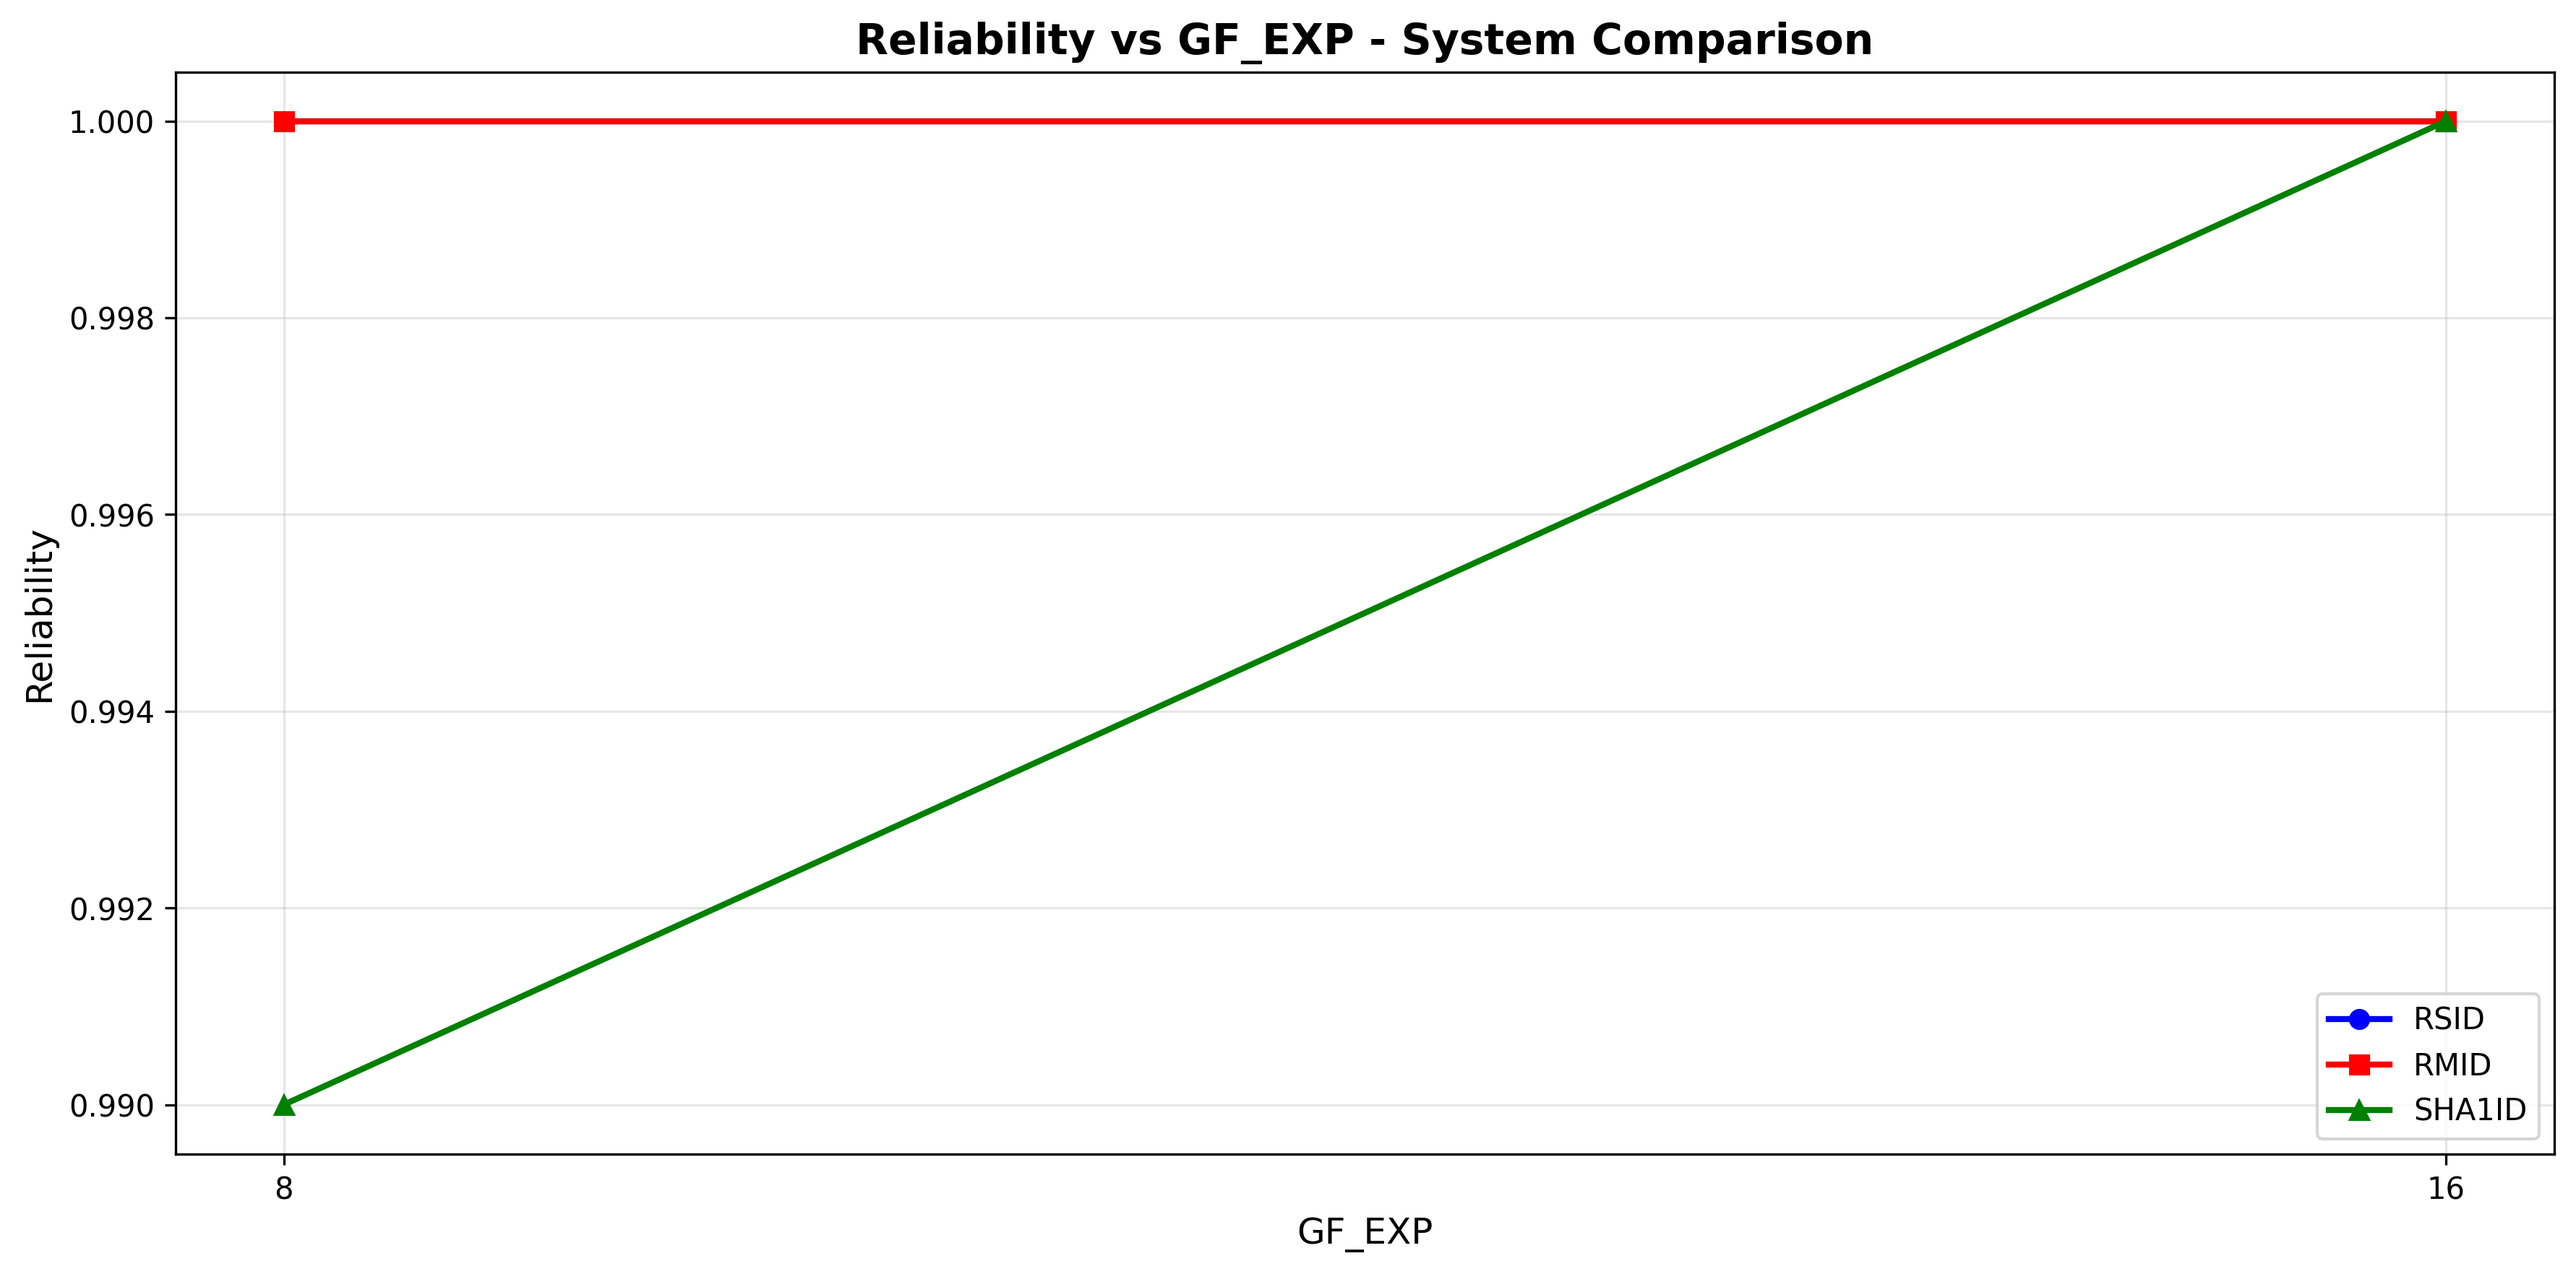
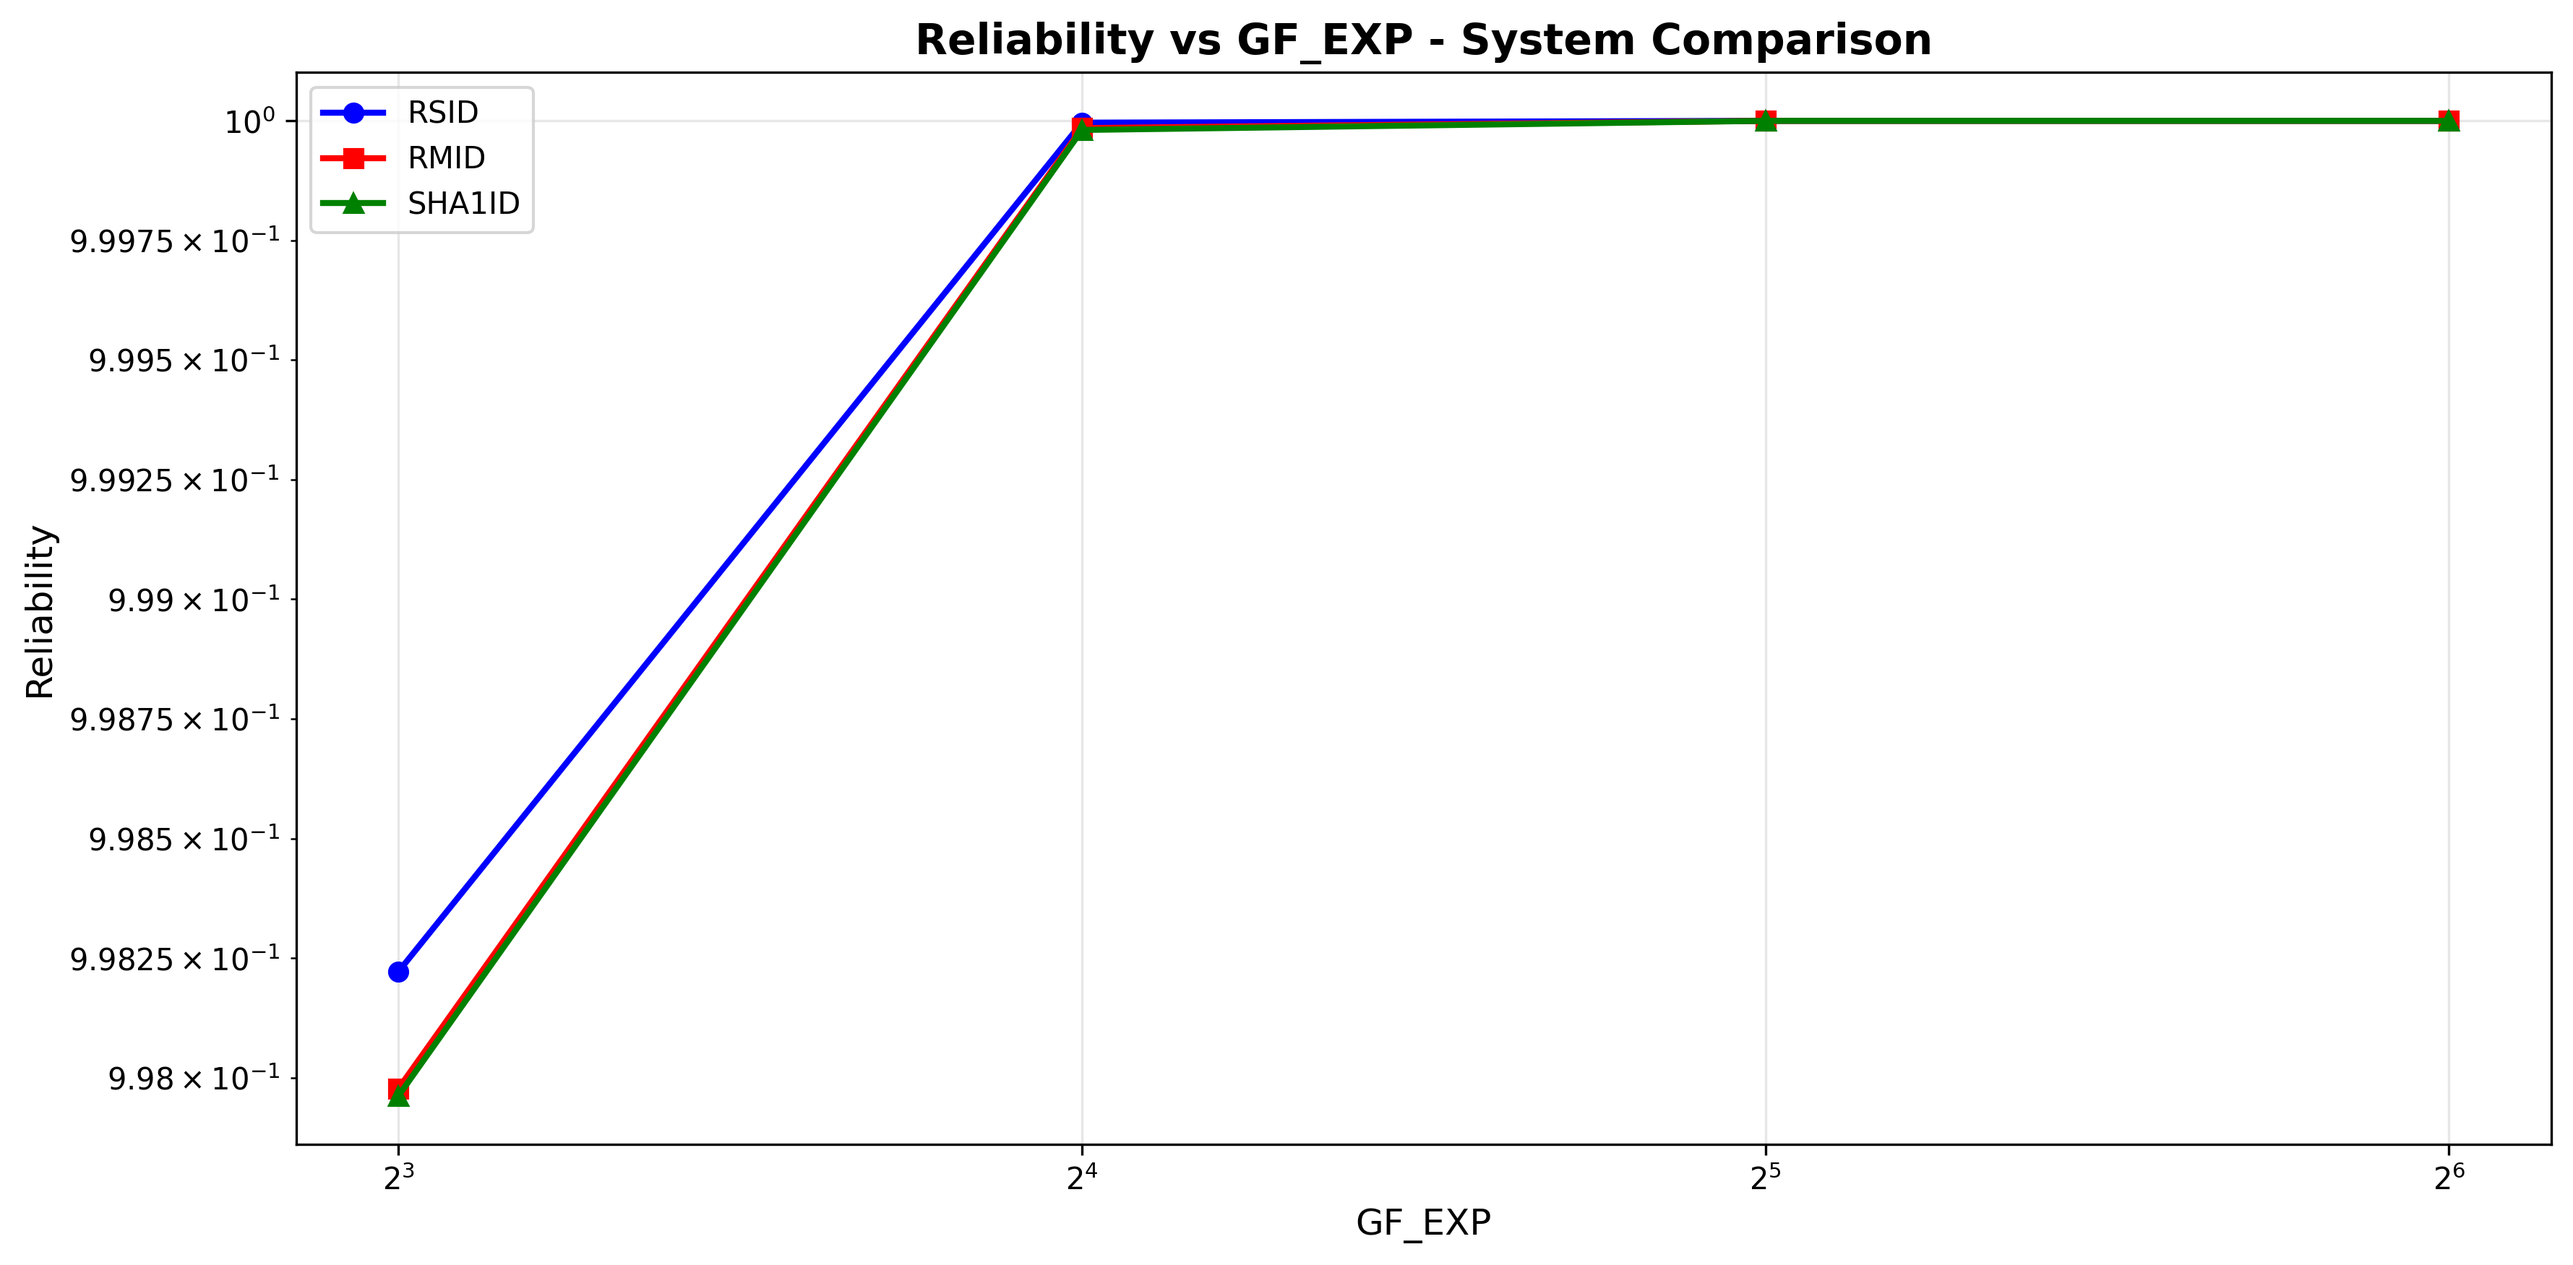
update: ran with all gf_exp's

diff --git a/analyses/gf_exp_influence/gf_exp.py b/analyses/gf_exp_influence/gf_exp.py
@@ -12,7 +12,7 @@ def main():
     print("=" * 50)
 
     # Range of gf_exp values to test
-    gf_exp_values = [8, 16]
+    gf_exp_values = [8, 16, 32, 64]
 
     # Create systems as a dictionary for compare_systems
     system_types = [
@@ -22,20 +22,20 @@ def main():
     ]
 
     # Store results for each system
-    system_results = {name: {'gf_exp': [], 'reliability': [], 'exec_time': []} for name, _ in system_types}
+    system_results = {name: {'gf_exp': [], 'reliability': [], 'exec_time': [], 'fp_rate': []} for name, _ in system_types}
 
     for gf_exp in gf_exp_values:
         print(f"\nEvaluating with GF_EXP: {gf_exp}")
         # Generate test messages for this gf_exp
-        messages = generate_test_messages(vec_len=16, gf_exp=gf_exp, count=100)
+        messages = generate_test_messages(vec_len=8, gf_exp=gf_exp, count=1000)
         systems = {name: make_sys(gf_exp) for name, make_sys in system_types}
 
         metrics = IdMetrics.compare_systems(
             systems,
             messages,
             #num_trials=100000,  # Fewer trials for speed
-            num_trials=100,  # Fewer trials for speed
-            timing_iterations=3,
+            num_trials=2**18,  # Fewer trials for speed
+            timing_iterations=1000,
             p_true_positive=0.5
         )
 
@@ -44,6 +44,7 @@ def main():
             system_results[system_name]['gf_exp'].append(gf_exp)
             system_results[system_name]['reliability'].append(system_metrics["reliability"])
             system_results[system_name]['exec_time'].append(system_metrics["avg_execution_time_ms"])
+            system_results[system_name]['fp_rate'].append(system_metrics["false_positive_rate"])
 
     #TODO: Analyze different time metrics
 
@@ -62,6 +63,8 @@ def main():
     plt.xlabel('GF_EXP', fontsize=12)
     plt.ylabel('Reliability', fontsize=12)
     plt.grid(True, alpha=0.3)
+    plt.xscale('log', base=2)
+    plt.yscale('log')
     plt.legend(fontsize=10)
     plt.xticks(gf_exp_values)
     plt.tight_layout()
@@ -80,10 +83,32 @@ def main():
     plt.xlabel('GF_EXP', fontsize=12)
     plt.ylabel('Execution Time (s)', fontsize=12)
     plt.grid(True, alpha=0.3)
+    plt.xscale('log', base=2)
+    plt.yscale('log')
     plt.legend(fontsize=10)
     plt.xticks(gf_exp_values)
     plt.tight_layout()
     plt.savefig('analyses/gf_exp_influence/exec_time_vs_gf_exp.png', dpi=300, bbox_inches='tight')
+
+    # Plot false positive rate vs gf_exp
+    plt.figure(figsize=(12, 6))
+    for i, (system_name, results) in enumerate(system_results.items()):
+        plt.plot(results['gf_exp'], results['fp_rate'],
+                 marker=markers[i % len(markers)],
+                 color=colors[i % len(colors)],
+                 label=system_name,
+                 linewidth=2,
+                 markersize=6)
+    plt.title('False Positive Rate vs GF_EXP - System Comparison', fontsize=14, fontweight='bold')
+    plt.xlabel('GF_EXP', fontsize=12)
+    plt.ylabel('False Positive Rate', fontsize=12)
+    plt.grid(True, alpha=0.3)    
+    plt.xscale('log', base=2)
+    plt.yscale('log')
+    plt.legend(fontsize=10)
+    plt.xticks(gf_exp_values)
+    plt.tight_layout()
+    plt.savefig('analyses/gf_exp_influence/fp_rate_vs_gf_exp.png', dpi=300, bbox_inches='tight')
 
     # Print summary statistics
     print("\n" + "=" * 60)
